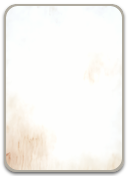
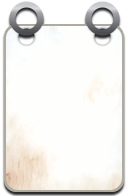
feat(art): フリップカードへ留具の穴・リング・濃い落ち影を描き込む
リングの実行時描画（単純な円）をやめ、金属の質感を付けた輪が打ち抜いた穴を通る絵を
flip_card.py（新規）で画像へ焼き込む。落ち影も狭く濃いものへ変えて画像に含めた。
card_frame.pyへの寸法追加は不要になったため元へ戻した。

diff --git a/src/game/ui/FlipCalendar.ts b/src/game/ui/FlipCalendar.ts
@@ -6,6 +6,13 @@ import { drawBox } from './shapes';
 /** 桁の紙の画像のテクスチャキー（実体はsrc/assets/flip_digit.png、BootSceneが読む）。 */
 export const FLIP_DIGIT_TEXTURE = 'flip-digit';
 
+/**
+ * 桁の画像の中の、紙の高さとその上に留具のリングが伸びる分（px）。flip_card.py の寸法と
+ * 対応していなければならない（ずれるとリングが桁から浮く）。
+ */
+const IMAGE_PAPER_HEIGHT = 176;
+const IMAGE_RING_OVERHEAD = 20;
+
 /** 日数の桁・時刻の桁の寸法（ScreenLayout.md 寸法トークン節、縦型・横型共通）。 */
 const DAY_DIGIT = { width: 64, height: 88, fontSize: 56 };
 const TIME_DIGIT = { width: 44, height: 60, fontSize: 36 };
@@ -108,13 +115,6 @@ export class FlipCalendar extends Phaser.GameObjects.Container {
 
     const card = addCardPaper(scene, metrics, x, top, width, height);
 
-    // 留具のリング。CSSはborder-box指定なので、線幅の中心は外径14uから線幅3uを引いた半径になる。
-    const clasps = scene.add.graphics();
-    const ringRadius = metrics.px((14 - 3) / 2);
-    clasps.lineStyle(metrics.px(3), COLOR.flipDigitRing, 1);
-    clasps.strokeCircle(x + metrics.px(13), top - metrics.px(1), ringRadius);
-    clasps.strokeCircle(x + width - metrics.px(13), top - metrics.px(1), ringRadius);
-
     const text = scene.add
       .text(x + width / 2, top + height / 2, '', {
         fontFamily: FONT_FAMILY,
@@ -124,7 +124,7 @@ export class FlipCalendar extends Phaser.GameObjects.Container {
       })
       .setOrigin(0.5);
 
-    this.add([card, clasps, text]);
+    this.add([card, text]);
     this.digits.push(text);
   }
 
@@ -145,8 +145,9 @@ export class FlipCalendar extends Phaser.GameObjects.Container {
 }
 
 /**
- * 桁の紙。画像（FLIP_DIGIT_TEXTURE）があればそれを矩形いっぱいに貼り、無ければ図形で描く
- * （Card.addFrameと同じ流儀）。図形の場合、白い紙は明るい地に溶けるため縁の線で輪郭を確保する。
+ * 桁の紙と留具。画像（FLIP_DIGIT_TEXTURE）があればそれを貼り、無ければ図形で描く
+ * （Card.addFrameと同じ流儀）。画像には留具の穴・リング・落ち影まで描き込まれていて、
+ * 紙の部分が指定の矩形に一致し、リングはその上へはみ出す。
  */
 function addCardPaper(
   scene: Phaser.Scene,
@@ -157,8 +158,15 @@ function addCardPaper(
   height: number,
 ): Phaser.GameObjects.GameObject {
   if (scene.textures.exists(FLIP_DIGIT_TEXTURE)) {
-    return scene.add.image(x, top, FLIP_DIGIT_TEXTURE).setOrigin(0, 0).setDisplaySize(width, height);
+    const overhead = (height * IMAGE_RING_OVERHEAD) / IMAGE_PAPER_HEIGHT;
+    return scene.add
+      .image(x, top - overhead, FLIP_DIGIT_TEXTURE)
+      .setOrigin(0, 0)
+      .setDisplaySize(width, height + overhead);
   }
+
+  // フォールバックの図形。白い紙は明るい地に溶けるため縁の線で輪郭を確保する。
+  // リングのCSSはborder-box指定なので、線幅の中心は外径14uから線幅3uを引いた半径になる。
   const card = scene.add.graphics();
   drawBox(
     card,
@@ -170,5 +178,9 @@ function addCardPaper(
       radius: metrics.px(6),
     },
   );
+  const ringRadius = metrics.px((14 - 3) / 2);
+  card.lineStyle(metrics.px(3), COLOR.flipDigitRing, 1);
+  card.strokeCircle(x + metrics.px(13), top - metrics.px(1), ringRadius);
+  card.strokeCircle(x + width - metrics.px(13), top - metrics.px(1), ringRadius);
   return card;
 }

diff --git a/docs/ui/ScreenLayout_Mock.html b/docs/ui/ScreenLayout_Mock.html
@@ -313,7 +313,8 @@
       gap: calc(8 * var(--u));
     }
 
-    /* 各桁のフリップカード。上部の留具（リング）だけで吊り下がる。実装は白い紙の画像（flip_digit.png） */
+    /* 各桁のフリップカード。上部の留具（リング）だけで吊り下がる。
+       実装は穴・リング・影まで描き込んだ白い紙の画像（flip_digit.png）で、ここの疑似要素は近似 */
     .flip-digit {
       display: flex;
       align-items: center;

diff --git a/tools/comfyui/flip_card.py b/tools/comfyui/flip_card.py
@@ -1,0 +1,145 @@
+"""生成した紙のテクスチャから、日時のフリップカードの絵（flip_digit.png）を組み立てる。
+
+紙だけでなく、留具の穴・そこを通る金属リング・落ち影まで1枚に描き込む。静止した表示なので
+実行時に図形を重ねるより焼き込むほうが描画が少なく、質感も出せる（card_frame.py と同じ考え方）。
+
+    python flip_card.py paper.png --out flip_digit.png
+
+使った設定は出力の隣へ .json として残す。
+"""
+
+from __future__ import annotations
+
+import argparse
+import json
+from pathlib import Path
+
+import numpy as np
+from PIL import Image
+from scipy.ndimage import gaussian_filter
+
+from card_frame import cover, rounded_mask
+
+# 寸法（px、1u=2px）。紙の上にリングが伸びるぶんだけ、キャンバスは紙より背が高い。
+# FlipCalendar.ts は紙の高さを桁の寸法に合わせて表示するので、PAPER_HEIGHT と OVERHEAD の比を
+# 変えたらあちらの定数も揃えること（ずれるとリングが桁から浮く）。
+WIDTH = 128
+PAPER_HEIGHT = 176
+OVERHEAD = 20
+HEIGHT = OVERHEAD + PAPER_HEIGHT
+MARGIN = 4
+RADIUS = 12
+
+# 留具。リングは紙の上端の少し上を中心とする輪で、下側の線が穴の上半分を通る。
+# 線を穴の中心より上へ通すことで、穴の下側が開いて見える（中心を通すと穴がほぼ隠れて汚れに見えた）。
+RING_X = (26, WIDTH - 26)
+RING_CY = OVERHEAD + MARGIN - 6
+RING_RADIUS = 14
+RING_WIRE = 6
+HOLE_CY = OVERHEAD + MARGIN + 12
+HOLE_RADIUS = 8
+# 穴の縁は内側へ暗く落とし、紙に厚みがあるように見せる。
+HOLE_RIM = 2.5
+HOLE_RIM_DARK = 0.22
+
+
+def color(value: str) -> np.ndarray:
+    return np.array([int(value.lstrip("#")[i : i + 2], 16) for i in (0, 2, 4)], dtype=np.float64)
+
+
+def main() -> None:
+    parser = argparse.ArgumentParser(description=__doc__)
+    parser.add_argument("source", help="紙のテクスチャの生成物")
+    parser.add_argument("--out", required=True)
+    parser.add_argument("--paper", default="#fdfdfb", help="紙の色を寄せる目標（#RRGGBB）")
+    parser.add_argument("--wash", type=float, default=0.4,
+                        help="ムラを平均へ寄せる度合い（0〜1）。生成物の染みが強すぎるときに上げる")
+    parser.add_argument("--edge", default="#b0aba0", help="縁の線の色")
+    parser.add_argument("--edge-width", type=float, default=2, help="縁の線の太さ")
+    parser.add_argument("--shadow-offset", type=int, nargs=2, metavar=("DX", "DY"), default=(0, 3),
+                        help="影をずらす量（右・下）")
+    parser.add_argument("--shadow-blur", type=float, default=1.0, help="影のぼかし")
+    parser.add_argument("--shadow-alpha", type=float, default=0.85, help="影の濃さ（0〜1）")
+    args = parser.parse_args()
+
+    # 紙。目標の色へ寄せ、染みを薄める（card_frame.py と同じ手順）。
+    paper = np.asarray(cover(Image.open(args.source).convert("RGB"), WIDTH, PAPER_HEIGHT), dtype=np.float64)
+    goal = color(args.paper)
+    mean = paper.reshape(-1, 3).mean(axis=0)
+    paper = np.clip(paper * np.divide(goal, mean, out=np.ones(3), where=mean > 0), 0, 255)
+    if args.wash > 0:
+        paper = paper * (1 - args.wash) + goal * args.wash
+
+    rgb = np.zeros((HEIGHT, WIDTH, 3), dtype=np.float64)
+    rgb[OVERHEAD:] = paper
+    alpha = np.vstack([np.zeros((OVERHEAD, WIDTH)), rounded_mask(WIDTH, PAPER_HEIGHT, MARGIN, RADIUS)])
+
+    # 縁の線（マスクの内側だけに乗るよう、少し内側の角丸との差で描く）。
+    if args.edge_width > 0:
+        inner = np.vstack([
+            np.zeros((OVERHEAD, WIDTH)),
+            rounded_mask(WIDTH, PAPER_HEIGHT, MARGIN + round(args.edge_width), RADIUS),
+        ])
+        line = np.clip(alpha - inner, 0, 1)[:, :, None]
+        rgb = rgb * (1 - line) + color(args.edge) * line
+
+    yy, xx = np.mgrid[0:HEIGHT, 0:WIDTH].astype(np.float64)
+
+    # 留具の穴。打ち抜いて、縁を内側へ暗く落とす。
+    for cx in RING_X:
+        distance = np.hypot(xx - cx, yy - HOLE_CY)
+        alpha *= 1 - np.clip(HOLE_RADIUS + 0.5 - distance, 0, 1)
+        rim = np.clip(1 - (distance - HOLE_RADIUS) / HOLE_RIM, 0, 1)
+        rgb *= (1 - HOLE_RIM_DARK * rim)[:, :, None]
+
+    # リング。上ほど明るい金属の輪として描き、紙の上へ重ねる（穴の中でも見える）。
+    torus = np.zeros((HEIGHT, WIDTH))
+    for cx in RING_X:
+        distance = np.hypot(xx - cx, yy - RING_CY)
+        torus = np.maximum(torus, np.clip(RING_WIRE / 2 + 0.5 - np.abs(distance - RING_RADIUS), 0, 1))
+    shade = np.clip((yy - (RING_CY - RING_RADIUS)) / (2 * RING_RADIUS), 0, 1)
+    metal = 200 - 125 * shade + 35 * np.clip(1 - np.abs(shade - 0.15) / 0.15, 0, 1)
+    metal_rgb = np.dstack([metal, metal + 2, metal + 5])
+
+    # リングが紙へ落とす小さな影。リング自身が覆う場所は後の合成で隠れる。
+    contact = gaussian_filter(torus, sigma=1.0) * 0.22
+    rgb *= (1 - contact)[:, :, None]
+
+    merged = torus + alpha * (1 - torus)
+    rgb = np.divide(
+        metal_rgb * torus[:, :, None] + rgb * (alpha * (1 - torus))[:, :, None],
+        merged[:, :, None],
+        out=np.zeros_like(rgb),
+        where=merged[:, :, None] > 0,
+    )
+    alpha = merged
+
+    # 落ち影（card_frame.py と同じ合成）。狭く濃くして、ぶら下がったカードの浮きを出す。
+    if args.shadow_alpha > 0:
+        dx, dy = args.shadow_offset
+        shadow = gaussian_filter(np.roll(alpha, (dy, dx), axis=(0, 1)), sigma=args.shadow_blur)
+        shadow = np.clip(shadow * args.shadow_alpha * (1 - alpha), 0, 1)
+        merged = alpha + shadow
+        rgb = rgb * np.divide(alpha, merged, out=np.zeros_like(alpha), where=merged > 0)[:, :, None]
+        alpha = merged
+
+    out = Path(args.out)
+    out.parent.mkdir(parents=True, exist_ok=True)
+    Image.fromarray(np.dstack([rgb, alpha * 255]).clip(0, 255).astype(np.uint8), "RGBA").save(out)
+
+    settings = {
+        "source": Path(args.source).name,
+        "paper": args.paper,
+        "wash": args.wash,
+        "edge": args.edge,
+        "edgeWidth": args.edge_width,
+        "shadowOffset": args.shadow_offset,
+        "shadowBlur": args.shadow_blur,
+        "shadowAlpha": args.shadow_alpha,
+    }
+    out.with_suffix(".json").write_text(json.dumps(settings, ensure_ascii=False, indent=2), "utf-8")
+    print(f"{out}  {WIDTH}x{HEIGHT}  紙{WIDTH}x{PAPER_HEIGHT} リングの余白{OVERHEAD}")
+
+
+if __name__ == "__main__":
+    main()

diff --git a/tools/comfyui/card_frame.py b/tools/comfyui/card_frame.py
@@ -1,8 +1,7 @@
-"""生成した紙のテクスチャから、角丸の紙のカード（card_frame.pngなど）を組み立てる。
+"""生成した紙のテクスチャから、カードの枠（card_frame.png）を組み立てる。
 
 カードの枠は「角丸の紙」でしかないが、角丸の半径と余白は card_art.py の定数と一致していなければ
 ならない（絵が枠からはみ出す）。生成では保証できないので、**紙だけ生成させて形はここで作る**。
-寸法を指定すれば、日時のフリップカードのような別サイズの紙カードも同じ手順で作れる。
 
 直接カードとして生成するのは無理だった。「playing card」と言うとトランプの絵札になり、外すと今度は
 カードの形が消えて水彩の滲みだけになる（12枚で全滅）。一方、紙のテクスチャは安定して出る。
@@ -22,7 +21,7 @@ import numpy as np
 from PIL import Image, ImageDraw
 from scipy.ndimage import gaussian_filter
 
-# 既定の寸法と、紙が占める範囲（card_art.py の PAPER_MARGIN / PAPER_RADIUS、
+# 出来上がりの寸法と、紙が占める範囲（card_art.py の PAPER_MARGIN / PAPER_RADIUS、
 # および Card.ts の FRAME_INSET / FRAME_RADIUS と揃っていなければならない）。
 CARD_WIDTH = 410
 CARD_HEIGHT = 640
@@ -61,8 +60,6 @@ def main() -> None:
     parser = argparse.ArgumentParser(description=__doc__)
     parser.add_argument("source", help="紙のテクスチャの生成物")
     parser.add_argument("--out", required=True)
-    parser.add_argument("--width", type=int, default=CARD_WIDTH)
-    parser.add_argument("--height", type=int, default=CARD_HEIGHT)
     parser.add_argument("--paper", default="#fcf8e6", help="紙の色を寄せる目標（#RRGGBB）")
     parser.add_argument("--wash", type=float, default=0.0,
                         help="ムラを平均へ寄せる度合い（0〜1）。生成物の染みが強すぎるときに上げる")
@@ -77,7 +74,7 @@ def main() -> None:
     parser.add_argument("--shadow-alpha", type=float, default=0.7, help="影の濃さ（0〜1）")
     args = parser.parse_args()
 
-    rgb = np.asarray(cover(Image.open(args.source).convert("RGB"), args.width, args.height), dtype=np.float64)
+    rgb = np.asarray(cover(Image.open(args.source).convert("RGB"), CARD_WIDTH, CARD_HEIGHT), dtype=np.float64)
 
     # 生成された紙は濃いので、目標の色へ寄せる。全面が紙なので、平均を合わせるだけでよい。
     goal = np.array([int(args.paper.lstrip("#")[i : i + 2], 16) for i in (0, 2, 4)], dtype=np.float64)
@@ -87,11 +84,11 @@ def main() -> None:
     if args.wash > 0:
         rgb = rgb * (1 - args.wash) + goal * args.wash
 
-    alpha = rounded_mask(args.width, args.height, args.margin, args.radius)
+    alpha = rounded_mask(CARD_WIDTH, CARD_HEIGHT, args.margin, args.radius)
 
     # 縁の線は、マスクの内側だけに乗るよう、少し内側の角丸との差で描く。
     if args.edge_width > 0:
-        inner = rounded_mask(args.width, args.height, args.margin + round(args.edge_width), args.radius)
+        inner = rounded_mask(CARD_WIDTH, CARD_HEIGHT, args.margin + round(args.edge_width), args.radius)
         line = np.clip(alpha - inner, 0, 1)[:, :, None]
         edge = np.array([int(args.edge.lstrip("#")[i : i + 2], 16) for i in (0, 2, 4)], dtype=np.float64)
         rgb = rgb * (1 - line) + edge * line
@@ -112,8 +109,6 @@ def main() -> None:
 
     settings = {
         "source": Path(args.source).name,
-        "width": args.width,
-        "height": args.height,
         "paper": args.paper,
         "wash": args.wash,
         "edge": args.edge,
@@ -125,7 +120,7 @@ def main() -> None:
         "shadowAlpha": args.shadow_alpha,
     }
     out.with_suffix(".json").write_text(json.dumps(settings, ensure_ascii=False, indent=2), "utf-8")
-    print(f"{out}  {args.width}x{args.height}  余白{args.margin} 角丸{args.radius}")
+    print(f"{out}  {CARD_WIDTH}x{CARD_HEIGHT}  余白{args.margin} 角丸{args.radius}")
 
 
 if __name__ == "__main__":

diff --git a/tools/comfyui/build.py b/tools/comfyui/build.py
@@ -147,10 +147,6 @@ def main() -> None:
                 [
                     str(raw),
                     "--out", str(processed),
-                    *(["--width", str(frame["width"])] if "width" in frame else []),
-                    *(["--height", str(frame["height"])] if "height" in frame else []),
-                    *(["--margin", str(frame["margin"])] if "margin" in frame else []),
-                    *(["--radius", str(frame["radius"])] if "radius" in frame else []),
                     "--paper", frame["paper"],
                     "--wash", str(frame["wash"]),
                     "--edge", frame["edge"],
@@ -158,6 +154,22 @@ def main() -> None:
                     "--shadow-offset", *map(str, frame["shadowOffset"]),
                     "--shadow-blur", str(frame["shadowBlur"]),
                     "--shadow-alpha", str(frame["shadowAlpha"]),
+                ],
+            )
+        elif "flipCard" in recipe:
+            flip = recipe["flipCard"]
+            run(
+                "flip_card.py",
+                [
+                    str(raw),
+                    "--out", str(processed),
+                    "--paper", flip["paper"],
+                    "--wash", str(flip["wash"]),
+                    "--edge", flip["edge"],
+                    "--edge-width", str(flip["edgeWidth"]),
+                    "--shadow-offset", *map(str, flip["shadowOffset"]),
+                    "--shadow-blur", str(flip["shadowBlur"]),
+                    "--shadow-alpha", str(flip["shadowAlpha"]),
                 ],
             )
         elif "pageArt" in recipe:

diff --git a/tools/comfyui/README.md b/tools/comfyui/README.md
@@ -77,8 +77,8 @@ python build.py recipes/medic.json
 python build.py recipes/card_frame.json
 ```
 
-日時のフリップカードの紙（`flip_digit.json`）も同じ仕組みで、`cardFrame` に寸法
-（`width` / `height` / `margin` / `radius`）を指定して小さな紙を組み立てる。
+日時のフリップカード（`flip_digit.json`）も紙の生成物は同じで、組み立ては `flip_card.py` が行う。
+こちらは紙に加えて、留具の穴・そこを通る金属リング・落ち影まで1枚に描き込む。
 
 **カードとして直接生成することはできません。** `playing card` と言うとトランプの絵札になり、外すと
 今度はカードの形が消えて水彩の滲みだけになります（12 枚で全滅）。そもそも角丸の半径と余白は
@@ -151,6 +151,7 @@ custom_nodes/unmapped_island_seamless  →  <インストール先>\ComfyUI\cust
 | `card_art.py` | カードに載る形へ整える（紙・物・影の分離と、出力サイズの決定） |
 | `prompts/objects.json` | アイテムごとのプロンプト |
 | `card_frame.py` | 紙のテクスチャからカードの枠を組み立てる |
+| `flip_card.py` | 紙のテクスチャから日時のフリップカード（穴・リング・影込み）を組み立てる |
 | `page_art.py` | 本の絵から片ページを切り出し、9patchの素材にする |
 | `custom_nodes/unmapped_island_seamless/` | 左右が繋がった絵を生成するための ComfyUI ノード |
 | `workflows/lane_background_sdxl.api.json` | API 形式のワークフロー（`$名前` がプレースホルダ）。既定 |
